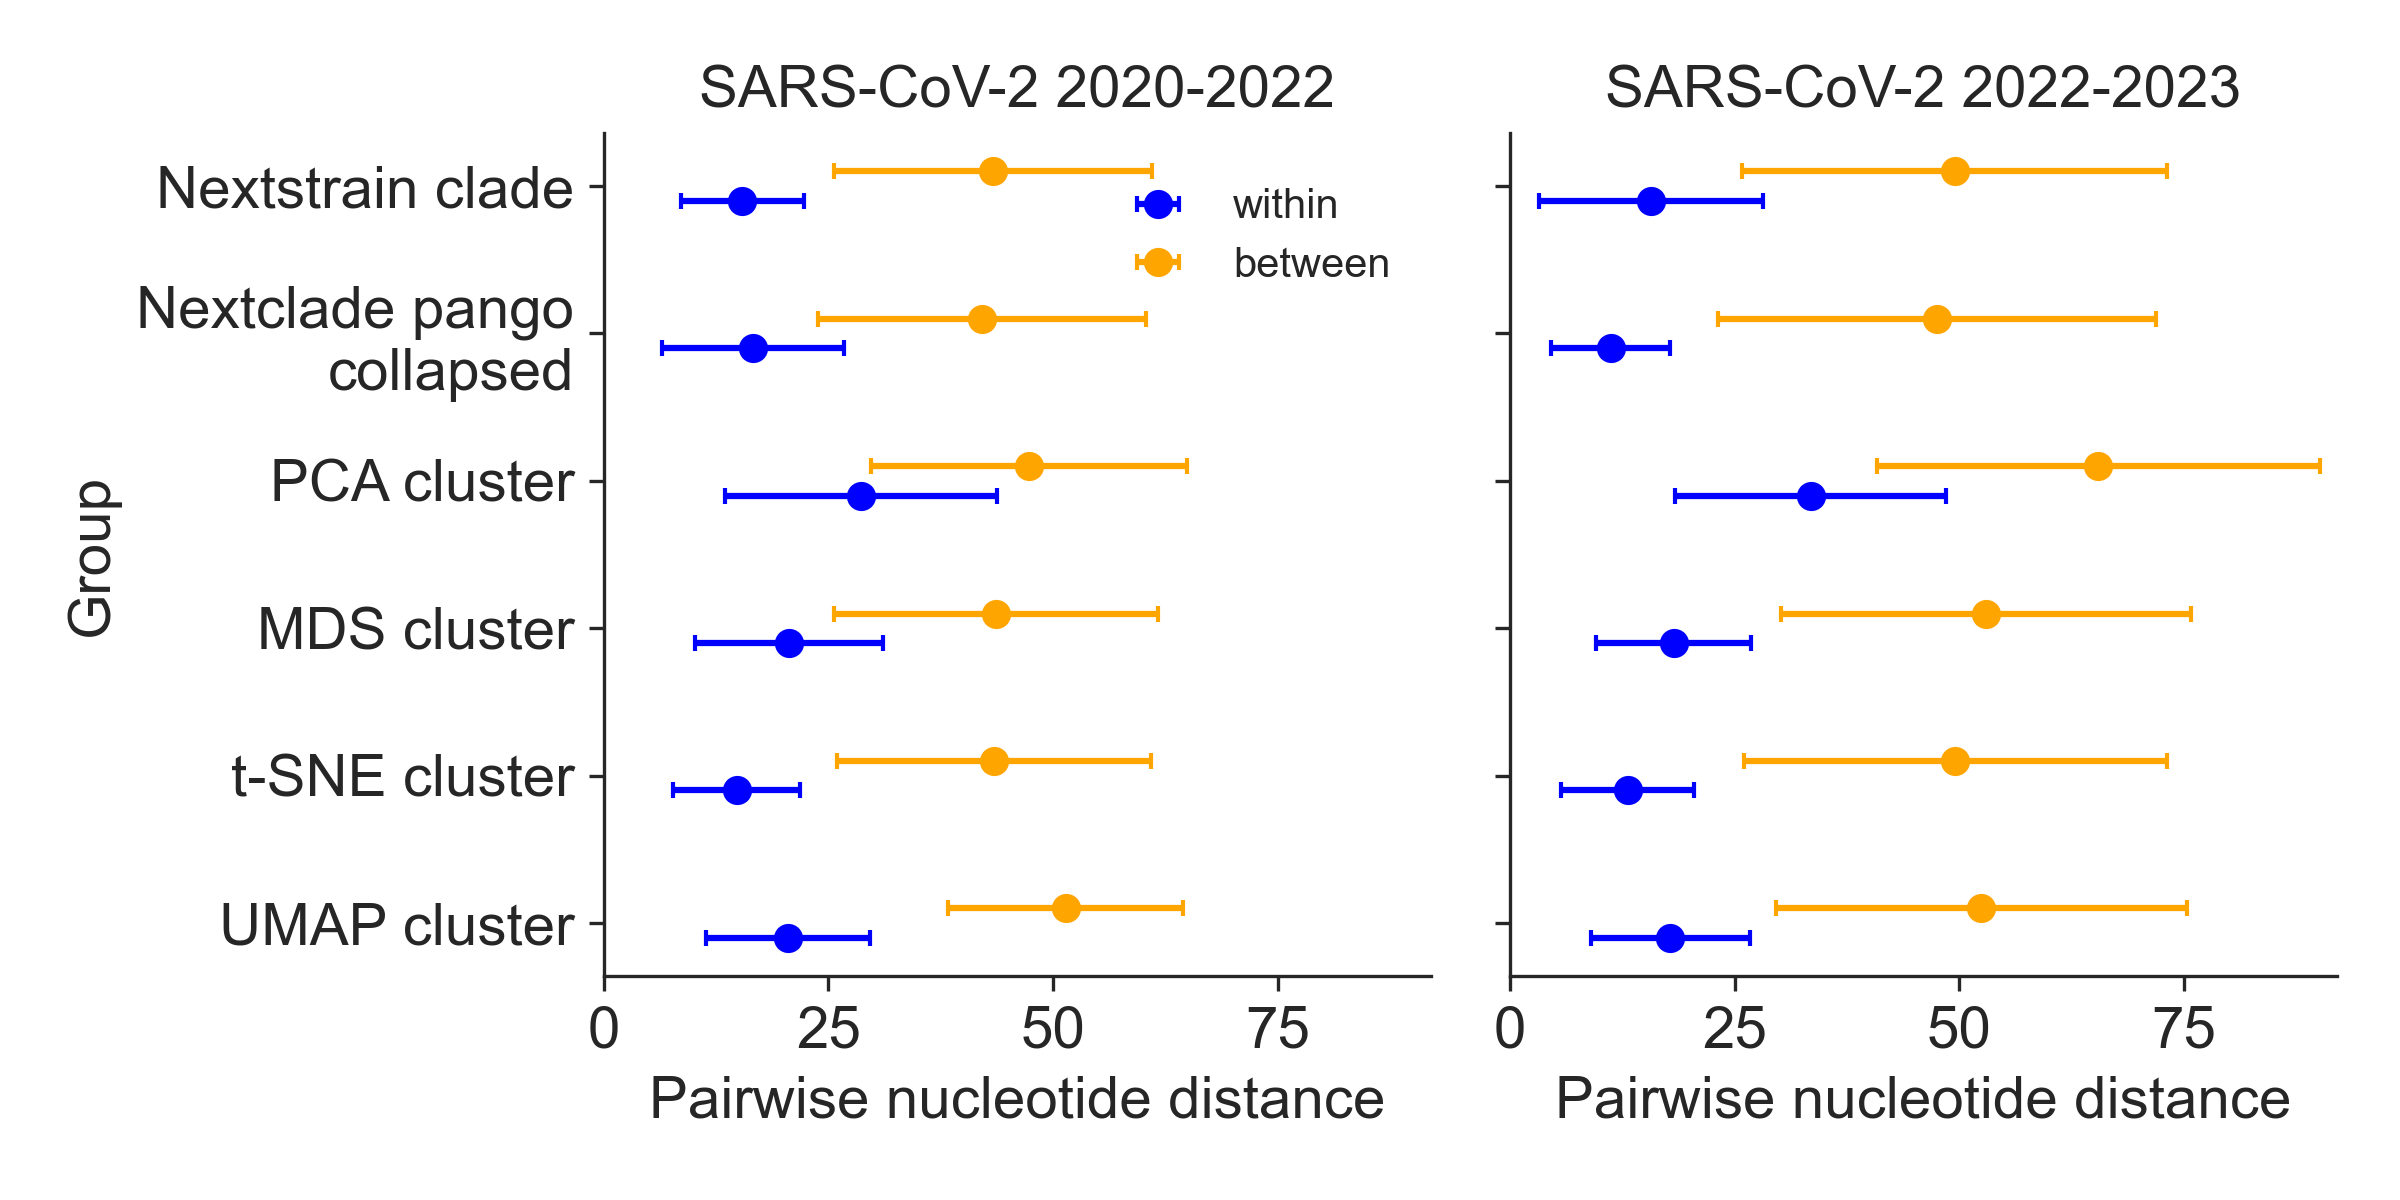
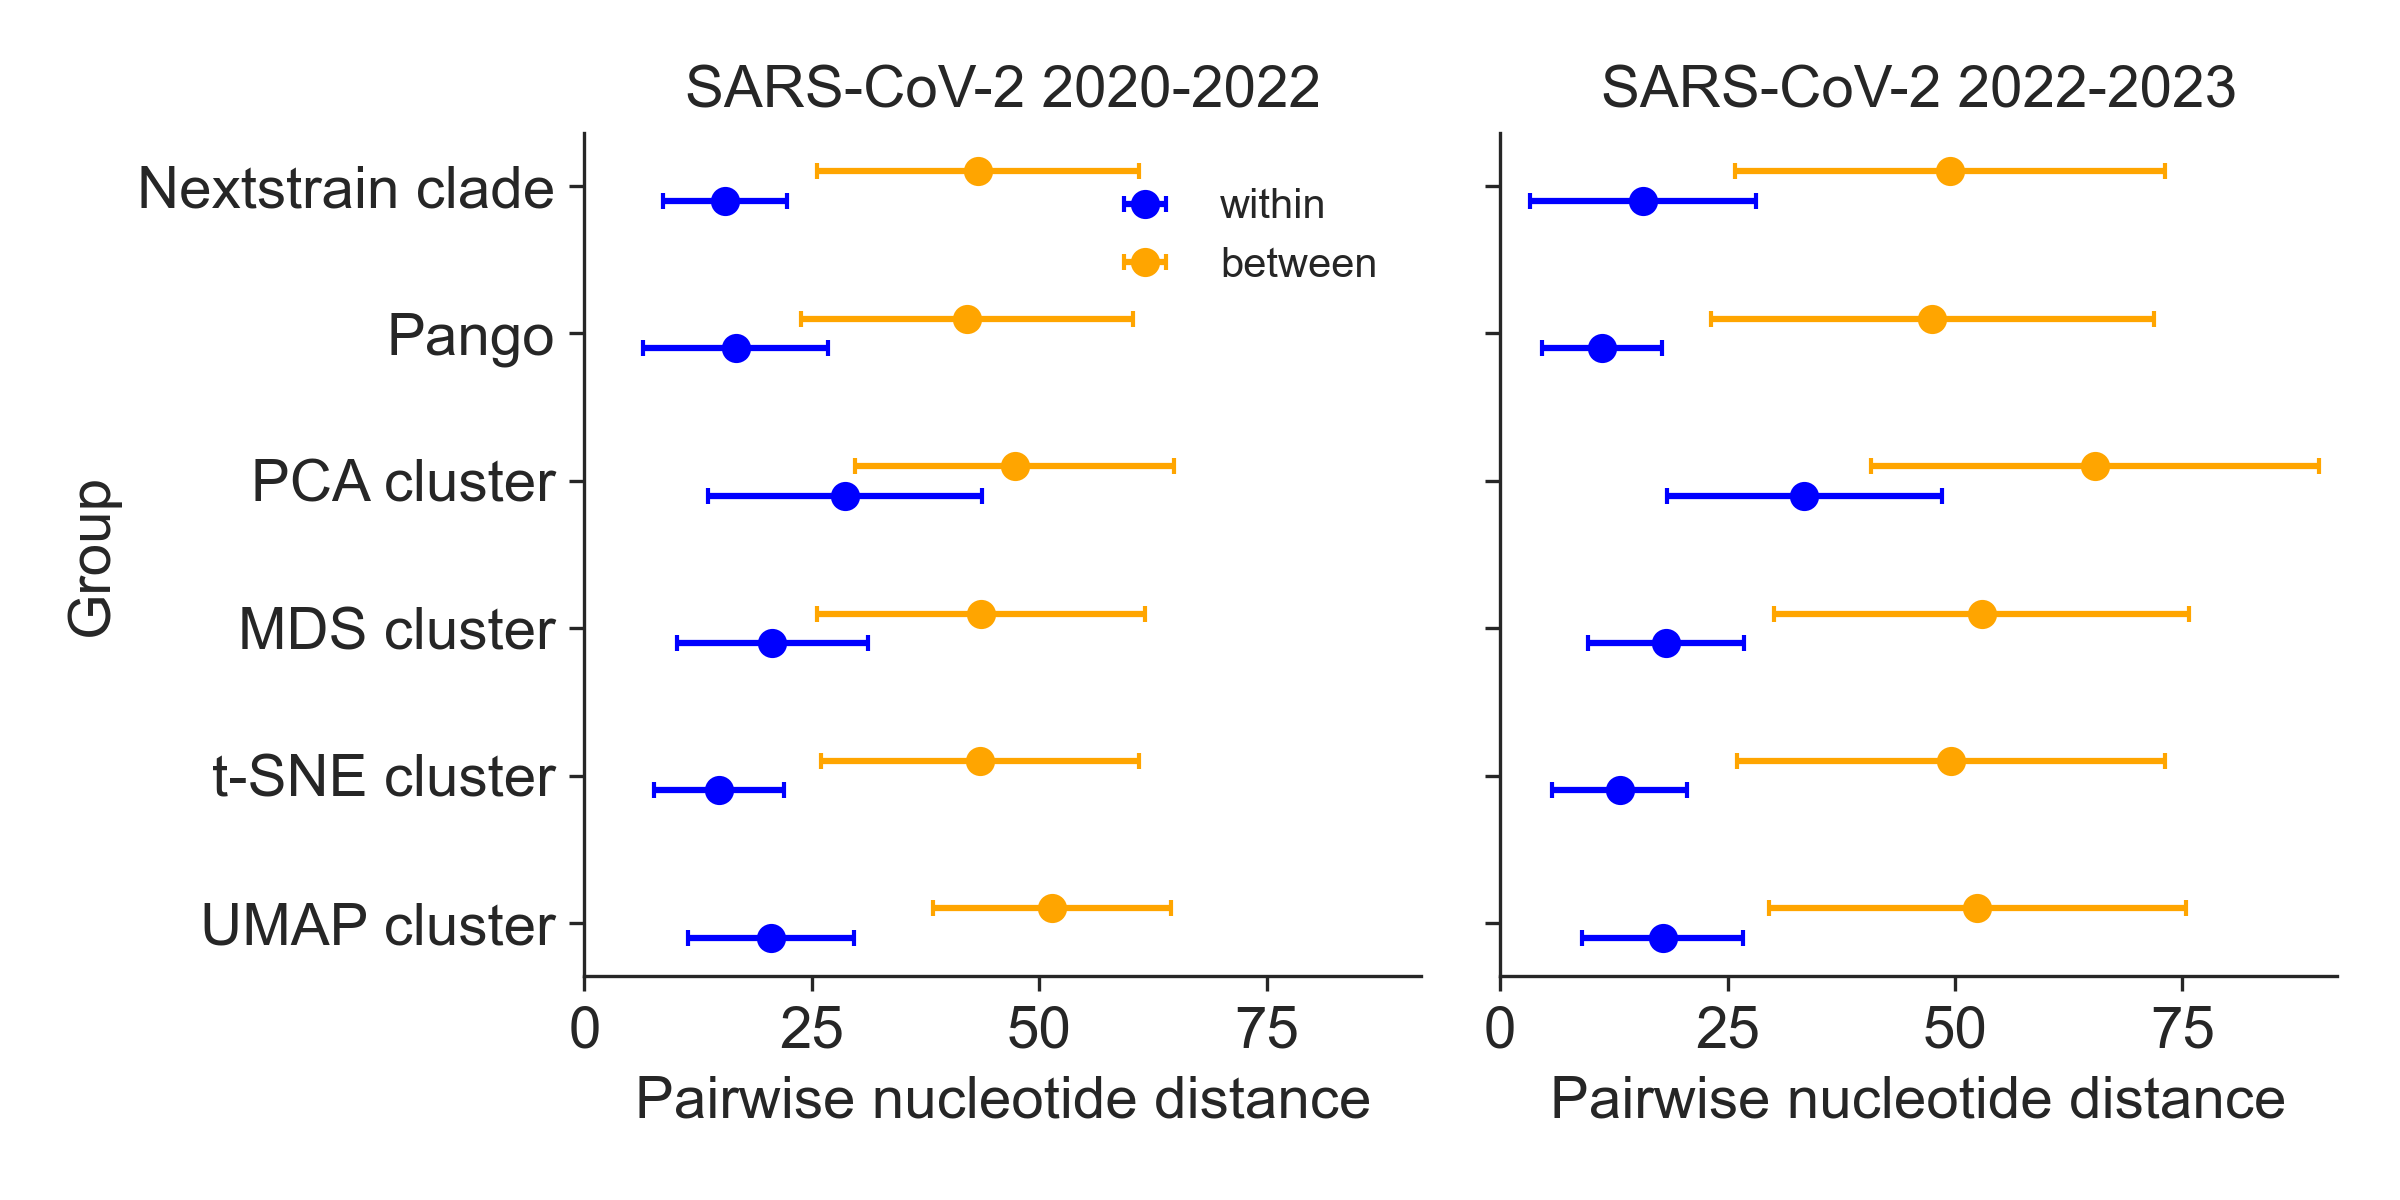
Fix "Pango" labels in figures and tables
Related to #72

diff --git a/manuscript/tables/accuracy_table.tex b/manuscript/tables/accuracy_table.tex
@@ -10,7 +10,7 @@ SARS-CoV-2 (Nextstrain clade) &  t-SNE & 0.07 &        1.0 \\
                               &    MDS & 0.15 &        0.0 \\
                               &   UMAP & 0.16 &        0.5 \\
                               &    PCA & 0.22 &        0.5 \\
- SARS-CoV-2 (Nextclade pango) &  t-SNE & 0.12 &        1.0 \\
+           SARS-CoV-2 (Pango) &  t-SNE & 0.12 &        1.0 \\
                               &    MDS & 0.23 &        0.0 \\
                               &   UMAP & 0.25 &        0.5 \\
                               &    PCA & 0.31 &        0.5 \\
